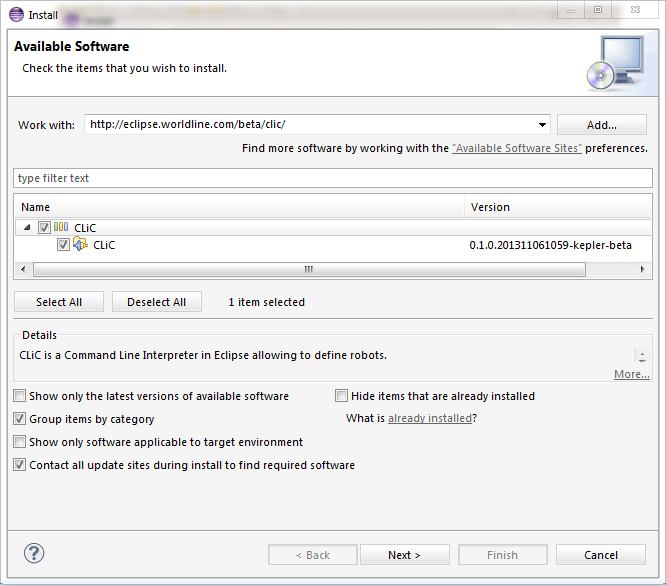
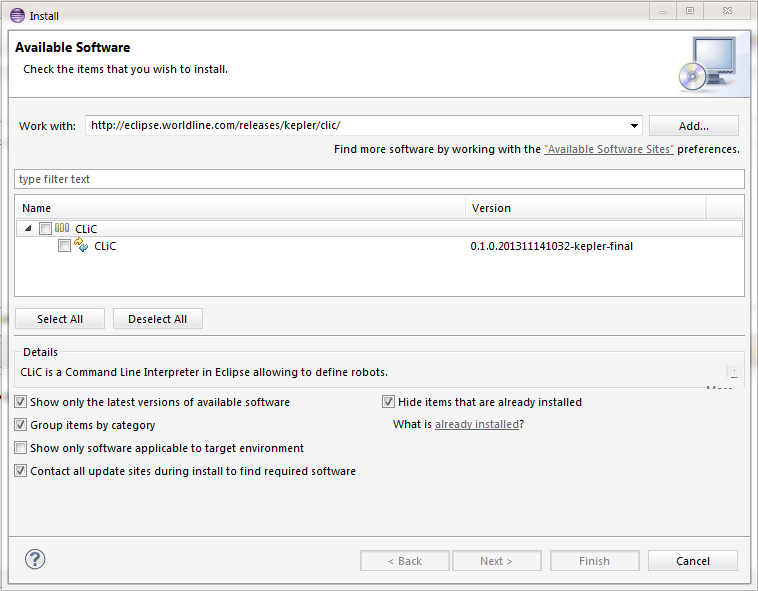
Updated documentation for 1st release

Changed region(s): [[0.0, 0.0, 1.0, 1.0], [0.5105, 0.6451, 0.8108, 0.7372], [0.8108, 0.1843, 0.8408, 0.215]]

diff --git a/getting-started.html b/getting-started.html
@@ -29,12 +29,19 @@ title: CLiC - Getting Started
 		<h3 class="panel-title">Installation</h3>
 	</div>
 	<div class="panel-body">
-		<div class="alert alert-info"><span class="glyphicon glyphicon-info-sign"></span> <strong>Info:</strong> CLiC is still in development, but we already provide a beta version to be installed. Don't hesitate to <a href="https://github.com/awltech/clic/issues" target="_blank" class="alert-link">report any bug</a> you may encounter.</div>
-		<p>CLiC is a complete tooling relying on Eclipse. From now on, it's available for <a href="http://www.eclipse.org/kepler/" target="_blank">Eclipse Kepler</a>. So first of all, if Eclipse isn't installed on your workstation, you'll need to <a href="http://www.eclipse.org/downloads/" target="_blank">install it</a>.</p>
-		<p>
-			CLiC consists in a set of Eclipse plugins, so you'll need to use Eclipse's way to install plugins: simply go to <strong>Help > Install New Software...</strong>, and then specify CLiC's update site URL, which for now on is: <code>http://eclipse.worldline.com/beta/clic/</code>
+		<p>CLiC is a complete tooling relying on Eclipse, so first of all, if Eclipse isn't installed on your workstation, you'll need to <a href="http://www.eclipse.org/downloads/" target="_blank">install it</a>.</p>
+		<p>CLiC consists in a set of Eclipse plugins, so you'll need to use Eclipse's way to install plugins: simply go to <strong>Help &gt; Install New Software...</strong>, and then specify CLiC's update site URL, which you can find in the detailed list below:
 		</p>
+		<h4>Update sites</h4>
+		<ul>
+			<li><a href="http://www.eclipse.org/kepler/" target="_blank">Eclipse Kepler</a>:</li>
+			<ul>
+				<li><strong>0.1.0</strong>: <a href="http://eclipse.worldline.com/releases/kepler/clic/">http://eclipse.worldline.com/releases/kepler/clic/</a></li>
+			</ul>
+		</ul>
+		<p>Here's the result you should see on Eclipse while using the update site:</p>
 		<p><center><img src="resources/install.png" alt="Eclipse Installation"/></center></p>
+		<p>For more information about the releases and their changelogs, please have a look at <a href="about.html">this page of the documentation</a>.</p>
 	</div>
 </div>
 

diff --git a/about.html b/about.html
@@ -7,7 +7,31 @@ title: CLiC - About
 	<h1>About</h1>
 </div>
 
-<div class="alert alert-info"><span class="glyphicon glyphicon-info-sign"></span> <strong>Info:</strong> More information to come soon on this page ;)</div>
+<div class="alert alert-info"><span class="glyphicon glyphicon-info-sign"></span> <strong>News:</strong> CLiC 0.1.0 has just been delivered! Check it out!</div>
+
+<div class="panel panel-primary">
+	<div class="panel-heading">
+		<h3 class="panel-title">Releases</h3>
+	</div>
+	<div class="panel-body">
+		<h4>0.1.0</h4>
+		<p>Can be downloaded from <a href="http://eclipse.worldline.com/releases/kepler/clic/">http://eclipse.worldline.com/releases/kepler/clic/</a>.</p>
+		<p><strong>Changelog:</strong>:
+			<ul>
+				<li><a href="https://github.com/awltech/clic/issues/1">#1</a> - Introduce a maven generic plugin</li>
+				<li><a href="https://github.com/awltech/clic/issues/2">#2</a> - Setup a documentation portal</li>
+				<li><a href="https://github.com/awltech/clic/issues/3">#3</a> - Integrate jopt-simple for command parsing</li>
+				<li><a href="https://github.com/awltech/clic/issues/4">#4</a> - Give access to the view's outputstream for plugins' contributions</li>
+				<li><a href="https://github.com/awltech/clic/issues/5">#5</a> - Define an archetype for creating a Clic Eclipse plugin</li>
+				<li><a href="https://github.com/awltech/clic/issues/6">#6</a> - Introduce a list command</li>
+				<li><a href="https://github.com/awltech/clic/issues/7">#7</a> - Introduce a help command</li>
+				<li><a href="https://github.com/awltech/clic/issues/8">#8</a> - Introduce Tycho in order to build CLiC from Maven</li>
+				<li><a href="https://github.com/awltech/clic/issues/9">#9</a> - Manage messages with i18n</li>
+				<li><a href="https://github.com/awltech/clic/issues/10">#10</a> - Allow to invoke a command programmatically</li>
+			</ul>
+		</p>
+	</div>
+</div>
 
 <div class="panel panel-primary">
 	<div class="panel-heading">

diff --git a/commands.html b/commands.html
@@ -105,5 +105,8 @@ title: CLiC - Commands
 			<p>For more advanded usage, you can even think of using Maven profiles, Maven settings and their global parameters, etc.</p>
 			<h4>4. Industrialization of Maven commands</h4>
 			<p>Please note that thanks to the programmatic invocation of commands, it's possible, and really easy, to bring some industrialization while dealing with Maven commands execution. You can indeed write your own command which allows to generate a complete Maven command, and then execute it with your own parameters. Have a look at the <a href="documentation.html#programmatic-invokation">documentation</a> to see how to invoke commands programmatically ;)</p>
+			<h4>5. Defining flows directly in Maven</h4>
+			<p>On top of the flow feature which is available directly in CLiC, it's also possible to manage your flows directly from Maven. Indeed, it's possible to call various goals in the same command line, and you can also define a Maven plugin allowing to wrap different directives to be executed.</p>
+			<p>As for Maven, if you want to develop some flows that you'd like to be invoked remotely, we recommend to develop a Maven plugin managing the flow you'd like to execute by invoking sequentially the commands you'd like to run.</p>
 		</div>
 	</div>

diff --git a/_layouts/default.html b/_layouts/default.html
@@ -41,7 +41,6 @@
           </div>
           <div class="navbar-collapse collapse">
             <ul class="nav navbar-nav">
-              <li><a href="{{ site.baseurl}}/index.html">Home</a></li>
               <li><a href="{{ site.baseurl}}/getting-started.html">Getting Started</a></li>
               <li><a href="{{ site.baseurl}}/documentation.html">Documentation</a></li>
               <li><a href="{{ site.baseurl}}/developers.html">Developers</a></li>
